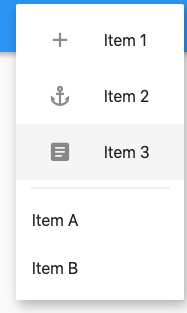
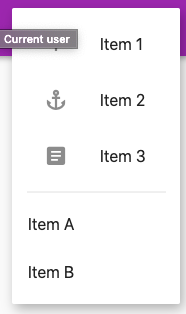
Fixed issues

diff --git a/docs/components/dartpad/menus/dropdown/main.dart b/docs/components/dartpad/menus/dropdown/main.dart
@@ -8,19 +8,15 @@ class MyApp extends StatelessWidget {
     return MaterialApp(
       title: 'Dropdown Menu Demo',
       debugShowCheckedModeBanner: false,
+      theme: ThemeData(
+        primaryColor: Colors.purple,
+      ),
       home: DropdownMenuDemo(),
     );
   }
 }
 
-class DropdownMenuDemo extends StatefulWidget {
-  @override
-  _DropdownMenuDemoState createState() => _DropdownMenuDemoState();
-}
-
-class _DropdownMenuDemoState extends State<DropdownMenuDemo> {
-  Map<int, bool> countToValue = <int, bool>{};
-
+class DropdownMenuDemo extends StatelessWidget {
   @override
   Widget build(BuildContext context) {
     return Scaffold(

diff --git a/docs/components/dartpad/menus/theme/main.dart b/docs/components/dartpad/menus/theme/main.dart
@@ -14,14 +14,7 @@ class MyApp extends StatelessWidget {
   }
 }
 
-class DropdownMenuDemo extends StatefulWidget {
-  @override
-  _DropdownMenuDemoState createState() => _DropdownMenuDemoState();
-}
-
-class _DropdownMenuDemoState extends State<DropdownMenuDemo> {
-  Map<int, bool> countToValue = <int, bool>{};
-
+class DropdownMenuDemo extends StatelessWidget {
   @override
   Widget build(BuildContext context) {
     return Scaffold(

diff --git a/docs/components/menus.md b/docs/components/menus.md
@@ -17,17 +17,13 @@ api_doc_root: true
 # Contents
 
 - [Using menus](#using-menus)
-- [Installing menus](#installing-menus)
-- [Making menus accessible](#making-menus-accessible)
-- [Dropdown menus](#dropdown-menus)
-- [Exposed dropdown menus](#exposed-dropdown-menus)
+- [Anatomy](#anatomy)
+- [Types](#types)
 - [Theming](#theming)
 
 ## Using menus
 
 A menu displays a list of choices on a temporary surface. They appear when users interact with a button, action, or other control.
-
-### Installing menus
 
 ### Making menus accessible
 
@@ -53,7 +49,6 @@ The following are menu anatomy diagrams showing all possible elements:
 ------ | ---------
 **Color** | Use the `PopupMenuButton` widget. Within this widget use the `Colors` property
 **Height** | Use the `PopupMenuButton` widget. Within this widget use the `padding` property.
-**Overlay window** | Use the `PopupMenuButton` widget. Within this widget use `itemBuilder` property. Each item added to this list will add an additional window.
 
 ### Leading icon attributes
 
@@ -91,7 +86,7 @@ Adding cascading menu | Not currently supported.
 
 &nbsp;         | Property
 -------------- | ------------------------
- | Use the `PopupMenuButton` widget. Within this widget use `itemBuilder`. Within the list of itemBuilder add a `CheckedPopupMenuItem`.
+Adding selection state attributes | Use the `PopupMenuButton` widget. Within this widget use `itemBuilder`. Within the list of itemBuilder add a `CheckedPopupMenuItem`.
 
 ## Types
 
@@ -111,7 +106,7 @@ The following is an example of a dropdown menu:
 
 - [Class definition](https://api.flutter.dev/flutter/material/PopupMenuButton-class.html)
 - [GitHub source](https://github.com/flutter/flutter/blob/master/packages/flutter/lib/src/material/popup_menu.dart)
-- [Dartpad Demo](https://dartpad.dev/embed-flutter.html?gh_owner=material-components&gh_repo=material-components-flutter&gh_path=docs/components/dartpad/menus/dropdown&gh_ref=develop)
+- [Dartpad demo](https://dartpad.dev/embed-flutter.html?gh_owner=material-components&gh_repo=material-components-flutter&gh_path=docs/components/dartpad/menus/dropdown&gh_ref=develop)
 
 ![Dropdown menu example](assets/menus/dropdown_menu_example.png)
 
@@ -154,7 +149,7 @@ The following is an example of a dropdown menu:
 
 - [Class definition](https://api.flutter.dev/flutter/material/DropdownButton-class.html)
 - [GitHub source](https://github.com/flutter/flutter/blob/master/packages/flutter/lib/src/material/dropdown.dart)
-- [Dartpad Demo](https://dartpad.dev/embed-flutter.html?gh_owner=material-components&gh_repo=material-components-flutter&gh_path=docs/components/dartpad/menus/exposed_dropdown&gh_ref=develop)
+- [Dartpad demo](https://dartpad.dev/embed-flutter.html?gh_owner=material-components&gh_repo=material-components-flutter&gh_path=docs/components/dartpad/menus/exposed_dropdown&gh_ref=develop)
 
 ![Exposed Dropdown menu example](assets/menus/exposed_dropdown_menu_example.png)
 
@@ -197,13 +192,13 @@ DropdownButton(
 
 ## Theming
 
-Menus support [Material Theming](https://material.io/components/chips/#theming) and can be customized in terms of color, typography and shape.
+Menus support [Material Theming](https://material.io/components/menus#theming) and can be customized in terms of color, typography and shape.
 
 ### Theming example
 
 The following is an example of a dropdown menu:
 
-- [Dartpad Demo](https://dartpad.dev/embed-flutter.html?gh_owner=material-components&gh_repo=material-components-flutter&gh_path=docs/components/dartpad/menus/theme&gh_ref=develop)
+- [Dartpad demo](https://dartpad.dev/embed-flutter.html?gh_owner=material-components&gh_repo=material-components-flutter&gh_path=docs/components/dartpad/menus/theme&gh_ref=develop)
 
 ![Dropdown menu themed example](assets/menus/dropdown_menu_themed_example.png)
 
@@ -224,14 +219,7 @@ class MyApp extends StatelessWidget {
   }
 }
 
-class DropdownMenuDemo extends StatefulWidget {
-  @override
-  _DropdownMenuDemoState createState() => _DropdownMenuDemoState();
-}
-
-class _DropdownMenuDemoState extends State<DropdownMenuDemo> {
-  Map<int, bool> countToValue = <int, bool>{};
-
+class DropdownMenuDemo extends StatelessWidget {
   @override
   Widget build(BuildContext context) {
     return Scaffold(
